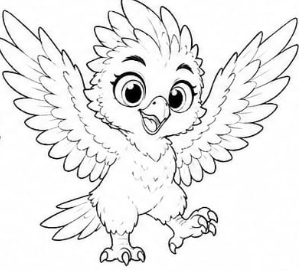
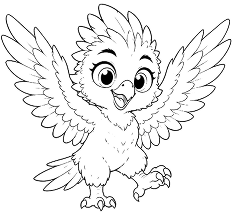
Atualização cadastro

diff --git a/Css/CriarConta.css b/Css/CriarConta.css
@@ -7,14 +7,19 @@
 html, body {
     min-height: 100%;
     font-family: sans-serif;
-    background-color: #F5F1E8;
+    background-color: #d6ae5df3;
+    padding: 20px;
+    
 }
 
 .countainer {
     display: flex;
-    flex-direction: row; 
-    width: 100%;
-    min-height: 100vh;   
+    flex-direction: row;
+    max-width: 950px; 
+    min-height: 500px;   
+    margin: auto;
+    border-radius: 20px;
+    overflow: hidden;
 }
 
 /* ================= LADO ESQUERDO ================= */
@@ -89,7 +94,7 @@ html, body {
 /* ================= LADO DIREITO ================= */
 .lado-direito {
     flex: 1;                    
-    background-color: #F5F1E8; 
+    background-color: #FFFBf1; 
     padding: 60px;
     display: flex;
     justify-content: center;    